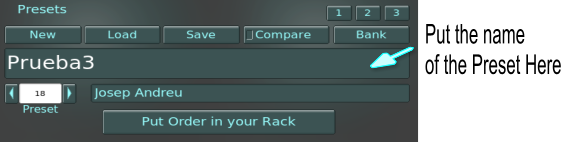
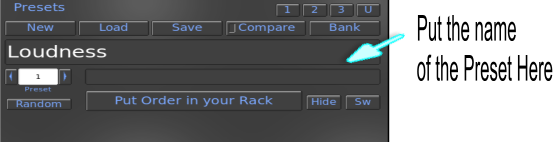
Update
modified:   doc/help/general.html
	modified:   doc/help/imagenes/preset_name1.png
	modified:   doc/help/imagenes/screen.png

Changed region(s): [[0.0, 0.0, 1.0, 1.0], [0.1844, 0.9296, 0.3382, 0.9577]]

diff --git a/doc/help/general.html b/doc/help/general.html
@@ -357,6 +357,9 @@ you can't overwrite as user. But is easy to save in any place to work
 with it. The bank contains default presets developed by <a href="#autores">the
 development team and some friends</a> who have contributed in this
 facet.</p>
+
+<p> The "Random" button generate a random preset</p>
+
 <p>Three banks are released with rakarrack, Default.rkrb, Extra.rkrb and
 Extra1, they are installed in the data directory selected in the configure process
 normally in "/usr/share/rakarrack" or "/usr/local/share/rakarrack".</p>
